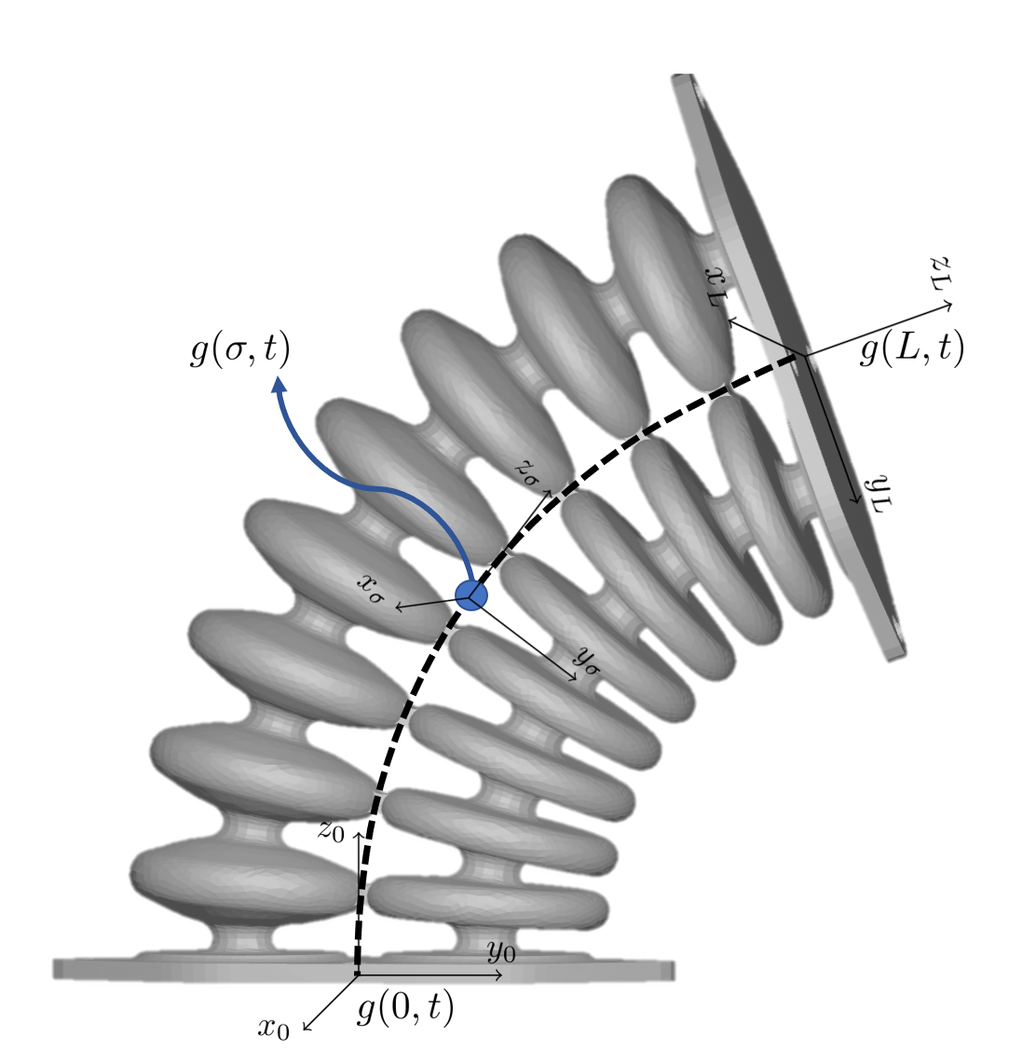
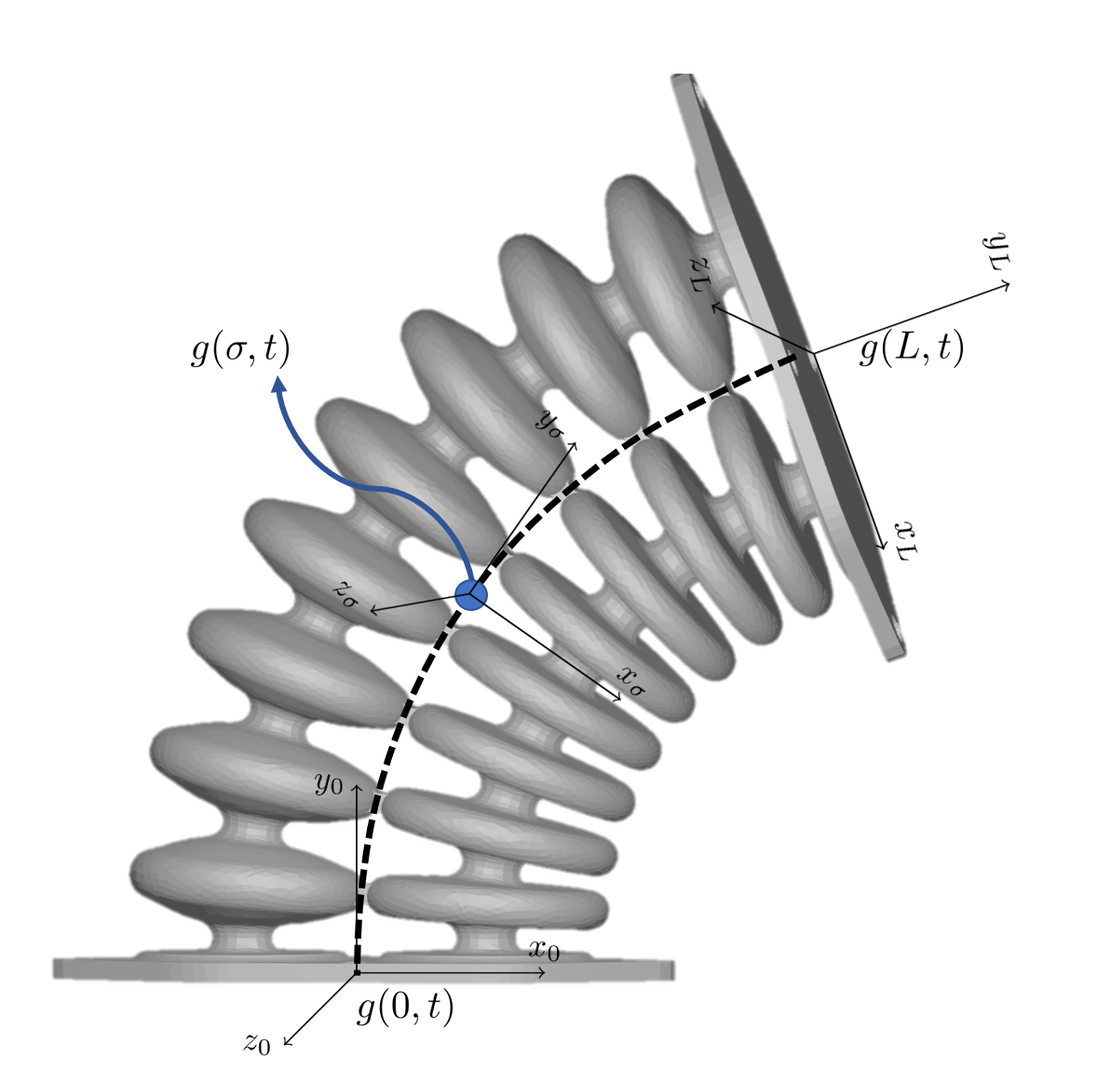
Updates from Overleaf

Changed region(s): [[0.031, 0.0613, 0.9298, 0.9807]]

diff --git a/Chapter/Chapter2_DynamicModel.tex b/Chapter/Chapter2_DynamicModel.tex
@@ -8,93 +8,85 @@ This chapter describes the dynamic model derivation of the soft robotic manipula
 
 \section{System description}
 
-The soft robot studied in this work is composed of a visco-elastic polymer using selective laser sintering technology. This manufacturing method is well suited to print hollow compartments, that allow for inflation. The elastomer has a low Young's modulus and is able to sustain large strains. These characteristics allow to induce large deformations with relatively low pressures. The geometry of the soft robot is best described by two bellows placed in parallel. Longitudinally, the bellows are connected to each other, creating the centre line of the actuator. The bellows are connected by a flanges at the top and bottom. The bellows can be inflated individually via air inlets created in the flange at one end of the actuator. This  The other end is closed, allowing to pressure the bellows. Since each bellow can be inflated independently, the entire actuator can increase its length and change orientation. Pressurizing both bellows equally will result in a near pure elongation of the soft robot. Creating a pressure difference will cause the soft robot to rotate. The following assumption is made with respect to the robot's task space:
+The soft robot studied in this work is composed of a visco-elastic polymer using selective laser sintering technology. This manufacturing method is well suited to print hollow compartments, that allow for inflation. The elastomer has a low Young's modulus and is able to sustain large strains. These characteristics allow to induce large deformations with relatively low pressures. The geometry of the soft robot is best described by two bellows placed in parallel. Longitudinally, the bellows are connected to each other, creating the centre line of the actuator. The bellows are connected by a flanges at the top and bottom. The bellows can be inflated individually via air inlets created in the flange at one end of the actuator. The other end is closed, allowing to pressure the bellows. Since each bellow can be inflated independently, the entire actuator can increase its length and change orientation. Pressurizing both bellows equally will result in a near pure elongation of the soft robot. Creating a pressure difference will cause the soft robot to rotate. The following assumption is made with respect to the robot's task space:
 
 \begin{theorem}
-Strains in the soft robot imposed by pneumatic actuation change the soft robot's length and orientation. Strains causing out of plane motion are deemed small, and can not be actively controlled. The soft robot's task-space therefore restricts itself to the 2 dimensional plane.
+Strains in the soft robot imposed by pneumatic actuation change the soft robot's length and orientation. Strains causing out of plane motion are deemed negligibly small, and can not be actively controlled. The soft robot's task-space therefore restricts itself to the 2 dimensional plane.
 \end{theorem}
 
-This assumption allows to describe the configuration of the soft robot in two dimensions. Since the soft robot has no clear end-effector a point on the body assigned to mark the end-effector location. 
-
-
-
-Since the soft robot has no clear end-effector such as a gripper or such, the centre line tip  a point is assigned to the geometrical mid and is is regarded as the end-effector location
-Therefore the ta space 
-
-
-The actuator is actuated in a single plane, hence the name planar soft robot. 
+This assumption allows to describe the configuration of the soft robot in a two dimensional Cartesian plane. Since the soft robot has no clear end-effector in the form of a gripper, a point on the body is assigned to be the end-effector. This point is situated at the geometric midst of the upper flange. The lower flange with the air inlets is fixed, here its geometric midst is defined as the origin. Altering the bellow pressure can therefore change the soft robot's end-effector position. Based on above assumptions a kinematic model of the soft actuator is developed. 
 
 
 \section{Cosserat beam theory}
 
-To describe the kinematics of the soft actuator used in this study, a Cosserat beam model is used \cite{Boyer2019}. This beam model can be thought of as a continuous one-dimensional curve representing the robot's backbone. This backbone is represented in Figure (\ref{fig2:kinematicschematic}) as the black dashed curve. This curve describes the configuration of the soft robot as a function of space and time. To this end, a spatial coordinate  $\sigma \in \mathbb{X}$ within bounded domain $\mathbb{X} \in [0,l] \subset \mathbb{R}$ is introduced. Furthermore, a temporal coordinate $t \in  \mathbb{T}$ with $\mathbb{T} \subseteq \mathbb{R}$ is defined. This allows to describe position $p(\sigma,t) \in \mathbb{R}^3$ and rotation $R(\sigma,t) \in \mathbb{SO}(3)$ for any point $\sigma$ and time instance $t$ among the backbone of the soft manipulator by \cite{Caasenbrood2020},
+To describe the kinematics of the soft actuator, a Cosserat beam model is used \cite{Boyer2019}. This beam model can be thought of as a continuous one-dimensional curve representing the robot's backbone. This backbone is represented in Figure (\ref{fig2:kinematicschematic}) as the black dashed curve. This curve describes the configuration of the soft robot as a function of space and time. Therefore, this function is dependent on spatial coordinate $\sigma \in \mathbb{X}$ within bounded domain $\mathbb{X} \in [0,L_0] \subset \mathbb{R}$, where $L_0$ is the nominal length of the actuator. Furthermore, a temporal coordinate $t \in \mathbb{T}$ with $\mathbb{T} \in [0,T]$ is defined. Under the assumption that the soft robot's task space is a two-dimensional plane, the rotation of any point $\sigma$ at time instance $t$ is given by rotation matrix $R(\sigma,t) \in \mathbb{SO}(2)$. Where $\mathbb{SO}(2)$ belongs to the special orthogonal group within Lie group theory. This matrix allows to express rotation of points on a two-dimensional surface, and is isomorphic to the circle group. Similarly, the position of that point is given by position vector $p(\sigma,t) \in \mathbb{R}^2$. This allows to describe position and rotation for any point $\sigma$ and time instance $t$ along the backbone of the soft manipulator by ,
 
 
 \begin{equation}
-    g(\sigma,t) = \begin{pmatrix}  R(\sigma,t) & p(\sigma,t) \\ 0_3^\top & 1 \end{pmatrix} \in \mathbb{SE}(3),
+    g(\sigma,t) = \begin{pmatrix}  R(\sigma,t) & p(\sigma,t) \\ 0_3^\top & 1 \end{pmatrix} \in \mathbb{SE}(2),
     \label{eq2:g}
 \end{equation}
 
-where $\mathbb{SE}(3)$ is the Lie group of rigid body transformations in $\mathbb{R}^3$ \cite{Sola2018}. Essentially, function $g(\sigma,t)$ expresses stretch-strain in a local frame evaluated at instance $\sigma$ at time $t$. Before the forward kinematics are derived the following assumption is made.
+where $\mathbb{SE}(2)$ is the Lie group of rigid body transformations in $\mathbb{R}^2$ \cite{Sola2018}. In order to derive forward kinematics another assumption has to be made with respect to this backbone curve $g(\sigma,t)$.
 
 \begin{theorem}
 Curve  $g(\sigma,t)$ is a continuous differential function $ \forall t \in 
 \mathbb{T} $ and $\forall \sigma \in \mathbb{X}$
 \end{theorem}
 
+This assumption demands that derivatives of the backbone with respect to time and space are also continuous. These derivatives are essential in determining the strain and velocity field of the soft robot actuator. This strain field allows to determine the time-invariant forward kinematics. Whilst the velocity field will be used in determining the system dynamics. First we try to solve the forward kinematic problem by computing the strain field.
 
 
-\section{Local strain computation}
+\begin{figure}[H]
+    \centering
+    \includegraphics[width=0.5\textwidth]{Figures/Chapter2/actuatorschematic.png}
+    \caption{Planar soft actuator with the backbone curve $g(\sigma,t)$.}
+    \label{fig2:kinematicschematic}
+\end{figure}
 
-The forward kinematic problem can be found by differentiating (\ref{eq2:g}) with respect to position.
-Derivatives with respect to the spatial domain will be indicated with a `prime'. This results in the following partial differential equation (PDE), 
+\section{Computation of the strain field}
 
-
-
+The local strain can be found by differentiating (\ref{eq2:g}) with respect to space. Derivatives with respect to the spatial domain will be indicated with a `prime'. This results in the following partial differential equation (PDE), 
 
 \begin{equation}
-   g' = \frac{\partial g}{\partial \sigma} = g \hat{\xi} \hspace{10pt} \text{with} \hspace{10pt}  \hat{\xi} = \begin{pmatrix} K_\times & E \\ 0_3^\top & 0 \end{pmatrix} \in  \mathfrak{se}(3)
+   g' = \frac{\partial g}{\partial \sigma} = g \hat{\xi} \hspace{10pt} \text{with} \hspace{10pt}  \hat{\xi} := \begin{pmatrix} K_\times & E \\ 0_3^\top & 0 \end{pmatrix} \in  \mathfrak{se}(2)
     \label{eq2:dgdsigma}
 \end{equation}
 
-where $\hat{\xi}$ is the space-twist field. Here, $K_\times \in \mathbb{R}^{3\times 3}$ is a skew-symmetric matrix expressing curvature-torsion strain, and $E = [\epsilon_1,\epsilon_2,\epsilon_3]^\top \in \mathbb{R}^3$ containing stretch-shear strain. The entries of $E$ represent degrees-of-freedom that allow elongation in all three directions. Likewise, the skew-symmetric matrix $K_{\times}$ holds three rotational degrees of freedom. From this skew symmetric matrix vector $K \in \mathbb{R}^3$ can be found. To find $K$ it must hold that $K_\times V = K \times V$ for any $V \in \mathbb{R}^3$ \cite{Boyer2019}. This gives $K = [\kappa_1,\kappa_2,\kappa_3]^\top$ expressing curvatures in all three directions. The stretch-strain and curvature-torsion components will be stored in vector $\xi \in \mathbb{R}^6$ as $[K \hspace{5pt} E]^\top$.
+where $\hat{\xi}$ is the space-twist field. Here, $K_\times \in \mathbb{SO}(2)$ is a skew-symmetric matrix expressing curvature-torsion strain, and $E = [\epsilon_x,\epsilon_y]^\top \in \mathbb{R}^2$ containing stretch-shear strain. Physically, the entry in matrix $K$ expresses the curvature of actuator in the plane. Whereas, the entries in vector $E$ represent strains in vertical and horizontal direction. It shall be clear that the soft robot studied here does not have an active strain in that allows for deformation in horizontal direction. The skew-symmetric matrix can be converted to a scalar expressing the curvature, which we denote by $K = \kappa$. These curvature-torsion strains and stretch-shear strain will be stored in column vector $\xi \in \mathbb{R}^3$ as $] K^\top \hspace{3pt} E^\top ]^\top$.
 
-
-\section{Strain projection into finite dimension}
-
+The PDE of \ref{eq2:dgdsigma} describes the forward kinematic problem needed to be solved in order to compute the robot's configuration. It is useful to transform this PDE to an ordinary differential equation (ODE) as this allows for faster computation and controller design. This transformation reduces the system's original infinite dimensionality to a predefined dimension. In order to be able to transform the system, we make the following assumption: 
 
 \begin{theorem}
 
 For any $t \in \mathbb{T}$ and $\sigma \in \mathbb{X}$, strain $\xi(\sigma,t)$ can be written as an infinite expansion of the form \cite{Caasenbrood2021},
 
 \begin{equation}
-\xi_i(\sigma,t) = \sum_{i=1}^\infty \varphi_i(\sigma)q_i(t) + \xi_{i,0}(\sigma), \hspace{20pt} \forall \sigma \in \mathbb{X}, t \in \mathbb{T},
+\xi_i(\sigma,t) = \sum_{k=1}^\infty \varphi_k(\sigma)q_k(t) + \xi_{i,0}(\sigma), \hspace{20pt} \forall \sigma \in \mathbb{X}, t \in \mathbb{T},
 \label{eq2:strainexact}
 \end{equation}
 
-in which, $\xi_{i,0}$ corresponds to the internal strains of the undeformed configuration of the robotic manipulator, $\{\varphi_i\}_{i \in \mathbb{N}}$ is a set of basis shape functions and $q(t)$ are modal coefficients. 
+in which, $\xi_{i}$ with $i \in {1,2,3}$ is the $i^{\text{th}}$ entry in the space-twist column vector. Furthermore, $k \in \mathbb{N}$ is the index of the summation. Initial strains of the undeformed soft robot are captured in $\xi_{i,0}$ and $\{\varphi_k\}_{k \in \mathbb{N}}$ is a set of basis shape functions and $q_i(t)$ a column vector are modal coefficients. 
 \end{theorem}
 
-Essentially, the PDE of (\ref{eq2:dgdsigma}), is transformed to an ordinary differential equation (ODE) by exploiting the Galerkin reduction method \cite{Galerkin}.
-
-
-
-Here, the infinite dimensional system is projected onto a subspace of finite dimension that contains basis elements of the expected solution. By reducing the dimensionality of the system, higher order dynamics are not captured in the model and thus robustness should be taken into account. To transform PDE (\ref{eq2:dgdsigma}), the components of the strain field $\xi(\sigma,t)$ are approximated using a finite amount of shape functions as,
+This assumption allows to transform the PDE of (\ref{eq2:dgdsigma}) to an ODE by exploiting the Galerkin reduction method \cite{Galerkin}. Here, the infinite dimensional system is projected onto a subspace of finite dimension that contains basis elements of the expected solution. Each of the three curvature/strains is approximated by an finite amount of shape functions each having a certain contribution to the complete solution. By reducing the dimensionality of the system, higher order dynamics are not captured in the model and thus robustness should be taken into account. To transform PDE (\ref{eq2:dgdsigma}), the components of the strain field $\xi(\sigma,t)$ are approximated using a finite amount of shape functions as,
 
 \begin{equation}
-    [\xi_i(\sigma,t)]_N = \sum_{i=1}^N \varphi_i(\sigma)q_i(t) + \xi_{i,0}(\sigma), \hspace{20pt} \forall \sigma \in \mathbb{X}, t \in \mathbb{T},
+    [\xi_i(\sigma,t)]_N = \sum_{k=1}^N \varphi_k(\sigma)q_k(t) + \xi_{i,0}(\sigma), \hspace{20pt} \forall \sigma \in \mathbb{X}, t \in \mathbb{T},
     \label{eq2:strainapprox}
 \end{equation}
 
-where $N$ is the amount of shape functions used to approximate strain $\xi(\sigma,t)$. It should be clear that the initial internal deformation $\xi_{(i,0)}$ is time invariant. There exist multiple variants of shape function polynomials that can be used in approximating strain. The Chebyshev polynomial, Polynomial and Legendre polynomials are respectively given by,
+where $N \in \mathbb{N}$ is the amount of shape functions used to approximate strain $\xi_i(\sigma,t)$. Vector $q(t) \in \mathbb{R}^N$ only contains time dependent modal coordinates. These modal coordinates can be viewed as coefficients expressing the contribution of each individual mode shape to the entire strain approximation. The modal coordinates used here are analogous to for example joint angles as used in traditional robotics. Furthermore, it should be clear that the initial internal deformation $\xi_{(i,0)}$ is time invariant. For the studied soft robot the initial deformation is given as $\xi_{i,0} = [0 \hspace{3pt} 0 \hspace{3pt} 1]^\top$. This means that the undeformed actuator is either in an upright or down configuration, e.g. no curvature $\kappa = 0$. Furthermore, the strain in horizontal direction $\epsilon_x = 0$. The stretch in vertical direction $\epsilon_y = 1$, which corresponds to the soft robots undeformed length $L_0$. The square brackets around $\xi$ indicate it is an approximation. 
+
+There exist multiple variants of shape function polynomials that can be used in approximating strain. The Chebyshev polynomial, Polynomial and Legendre polynomials given by, respectively,
 
 \begin{equation}
-    \varphi_{k,cheby}(\sigma) = \cos(k \sigma), \hspace{40pt} \varphi_{k,poly} = \sigma^k, \hspace{40pt} \varphi_{k,legend} = \frac{1}{2^k k!} \frac{d^k}{d\sigma^k}(\sigma^2-1)^k.
+    \varphi_{k,cheby}(\cos(\sigma)) = \cos(k \sigma), \hspace{40pt} \varphi_{k,poly} = \sigma^k, \hspace{40pt} \varphi_{k,legend} = \frac{1}{2^k k!} \frac{d^k}{d\sigma^k}(\sigma^2-1)^k.
     \label{eq2:shapefunction}
 \end{equation}
 
 
-Each degree of shape-function gives the model a certain amount of flexibility. Therefore increasing the order of shape-functions allows the model to describe more complex robot configurations. To avoid coupling between shape functions,  it is important that these shape functions are orthogonal. This means that $\int_\mathbb{X} \varphi_i \varphi_j d \sigma = 0$ for any $i \neq j$ and non-zero otherwise. Given this, the $N$-th order strain expansion can be formulated as,
+Each degree of shape-function gives the model a certain amount of flexibility. Therefore increasing the order of shape-functions allows the model to describe more complex robot configurations. To avoid coupling between the states, it is important that these shape functions are orthogonal to each other. This means that $\int_\mathbb{X} \varphi_i \varphi_j d \sigma = 0$ for any $i \neq j$ and non-zero otherwise. The strain approximation of \ref{eq2:strainapprox} can be written as a $N$-th order expansion as,
 
 
 
@@ -109,10 +101,21 @@ Each degree of shape-function gives the model a certain amount of flexibility. T
 \label{eq2:xishape}
 \end{equation}
 
-where $\Phi \in \mathbb{R}^{m \times n}$ is a shape function matrix where $n$ is equal to the amount of modal coordinates, and $m$ the amount of active strains, and $B_a \subseteq \text{span}(\mathbb{I}_6)$ a selection matrix of unconstrained strains. It should be clear that modal coordinate vector $q(t)$ has length $m \times N$.
+where $\Phi \in \mathbb{R}^{m \times N}$ is a shape function matrix where $N$ is equal to the amount of modal coordinates used for approximating the strain and $m$ the amount of active strains. The definition of active strains is this context are strains that can be actively controlled. For our soft robot this is the curvature and elongation $\epsilon_y$. Hence, $m=2$ for our system. Based on these active strains, selection matrix of unconstrained strains $B_a \subseteq \text{span} \mathbb{I_3}$ can be defined as,
+
+\begin{equation}
+    B_a = \begin{bmatrix}
+    1 & 0 & 0  \\
+    0 & 0 & 1  \\
+    \end{bmatrix}^\top.
+\end{equation}
+
+We now have developed 
+
+ should be clear that modal coordinate vector $q(t)$ has length $m \times N$.
 
 
-
+%%%%%%%%%%%%%%%%% check dimension q(t) !!!!!!!!!!!!!!!
 
 
 \section{Forward kinematics}
@@ -123,12 +126,7 @@ We have now presented a general framework for modelling forward kinematics for s
 
 For the planar robot, it shall be clear that we can actuate two degrees of freedom. By pressurizing both bellows equally the actuator can elongate. A difference in bellow pressure will induce a curvature. Therefore two active degrees of freedom are included. In the kinematic model strain $\epsilon_3$ and curvature $\kappa_2$ will take value 1. All other degrees-of-freedom will take value 0. Recall $\xi(\sigma,t)$ is $[K \hspace{5pt} E]^\top$, this results in vector $[0,1,0,0,0,1]^\top$. Selection matrix $B_a$ will have the following structure,
 
-\begin{equation}
-    B_a = \begin{bmatrix}
-    0 & 1 & 0 & 0 & 0 & 0 \\
-    0 & 0 & 0 & 0 & 0 & 1 \\
-    \end{bmatrix}^\top,
-\end{equation}
+
 
 the actuator has an initial length in the $\epsilon_3$ direction. Therefore $\xi_0 = [0,0,0,0,0,1]^\top$. Throughout this work we will use "elongation" or $\epsilon$ to address strain $\epsilon_3$. Likewise, ``curvature'', ``rotation'' or  $\kappa$ are used interchangeably to refer to curvature $\kappa_2$. Lastly, the amount of shape functions used to approximate strains is set. To this end another assumption is made.
 
@@ -150,10 +148,16 @@ From this point onward, only a single shape function is used to approximate the 
 
 Besides a forward kinematic model, a numerical inverse kinematic solver was programmed. This allows to define a position in planar Cartesian coordinates. The algorithm will minimize the distance between the desired end-effector position and reachable end-effector position given an amount of shape functions. It shows the model's flexibility when using multiple shape functions. The algorithm is further detailed in Appendix \ref{app:chap2}. 
 
+\section{Velocity kinematics}
 
-\section{Dynamic model derivation}
+Similar to the spatial derivative, backbone curve $g(\sigma,t)$ can be differentiated with respect to time. These time derivatives will be indicated with a `dot'. This differentiation results in, 
 
+\begin{equation}
+  \Dot{g} = \frac{\partial g}{\partial t} = g \hat{\eta} \hspace{10pt} \text{with} \hspace{10pt}  \hat{\eta} = \begin{pmatrix} \Omega_\times & V \\ 0_3^\top & 0 \end{pmatrix} \in  \mathfrak{se}(3)
+    \label{eq2:dgdt}
+\end{equation}
 
+which describes the time-twist field in a local frame at $\sigma$. Here, $\Omega_\times \in \mathbb{R}^{3 \times 3}$ is a skew-symmetric matrix expressing angular velocity, and vector $V = (v_1,v_2,v_3)^\top \in \mathbb{R}^3$ contains linear velocities. Therefore, $\eta$ effectively describes velocities among the backbone curve. Again, the skew-symmetric matrix $\Omega_\times$ can be represented as a vector $\Omega = [\omega_1,\omega_2,\omega_3]^\top \in \mathbb{R}^3$. These velocities are stored in vector $\eta(\sigma,t) = [\Omega \hspace{5pt} V]^\top \in \mathbb{R}^6$.
 
 Using the equality of mixed partial derivatives, at each instant of space and time $\frac{\partial}{\partial t}g' = \frac{\partial}{\partial \sigma}\dot{g}$ holds \cite{Caasenbrood2020}. Substituting (\ref{eq2:dgdsigma}) and (\ref{eq2:dgdt}) into this relation and simplifying results in,
 
@@ -191,18 +195,7 @@ Now we have an approximation for the strain of the actuator, we can find the ana
 here an expression for the geometric Jacobian $J(\sigma,t) \in \mathbb{R}^{6\times n}$ is obtained. This Jacobian maps modal coordinate velocity to linear and angular velocities among the backbone curve. This results in a Jacobian matrix which is non-linear with respect to position and time. This Jacobian will of use in determining the system dynamics. Furthermore it can be used for determining inverse kinematics, and control purposes.
 
 
-
-
-
-Similar to the spatial derivative, backbone curve $g(\sigma,t)$ can be differentiated with respect to time. These time derivatives will be indicated with a `dot'. This differentiation results in, 
-
-\begin{equation}
-  \Dot{g} = \frac{\partial g}{\partial t} = g \hat{\eta} \hspace{10pt} \text{with} \hspace{10pt}  \hat{\eta} = \begin{pmatrix} \Omega_\times & V \\ 0_3^\top & 0 \end{pmatrix} \in  \mathfrak{se}(3)
-    \label{eq2:dgdt}
-\end{equation}
-
-which describes the time-twist field in a local frame at $\sigma$. Here, $\Omega_\times \in \mathbb{R}^{3 \times 3}$ is a skew-symmetric matrix expressing angular velocity, and vector $V = (v_1,v_2,v_3)^\top \in \mathbb{R}^3$ contains linear velocities. Therefore, $\eta$ effectively describes velocities among the backbone curve. Again, the skew-symmetric matrix $\Omega_\times$ can be represented as a vector $\Omega = [\omega_1,\omega_2,\omega_3]^\top \in \mathbb{R}^3$. These velocities are stored in vector $\eta(\sigma,t) = [\Omega \hspace{5pt} V]^\top \in \mathbb{R}^6$.
-
+\section{Dynamic model derivation}
 
 
 To study the dynamic behaviour of the soft actuator a dynamic model is created. A relatively simple approximation is used to get insight of the basic dynamics of the actuator. In this we propose a non-linear mass-spring-damper model. The developed model incorporates non-linear mass and non-linear stiffness matrix in an effort to increase model accuracy. In this section an analytical expression for the mass matrix is provided. Additionally damping and stiffness matrices are introduced. For which the entries are determined in Chapter \ref{chap3}.
@@ -284,33 +277,22 @@ where $\tau \in \mathbb{R}^2$ describes the input moment and force acting on cur
 
 
 
-
-A kinematic description of the actuator is necessary to describe the position in three-dimensional space. A widely adopted method for describing the configuration of soft robots is piece-wise constant curvature (PCC) modelling \cite{ccapproach}. Previous research used this model to describe forward kinematics of soft actuators are \cite{mahl2014bhakin}, \cite{berkers},\cite{Falkenhahn2015}, \cite{ccapproach}, \cite{runge2017framework}. A schematic drawing of the constant curvature modelling approach is shown in Figure \ref{fig2:ccapproach}. Although we will not be using this exact methodology, it is important to understand the basics. The constant curvature describes the position of the actuator by three coordinates. Parameter $l$ is the curved length of the actuator measured from the fixed bottom to the tip. Coordinate $\kappa$ expresses the curvature of the actuator. It is assumed that the deformed actuator describes a perfect arc, hence radius $r$ is equal to $\frac{l}{k}$. This allows to write the orientation of the actuator's tip as $\theta = l\kappa$. Lastly, parameter $\phi$ describes the rotation of the actuator with respect to the ground. A single constant curvature is not able to describe complex actuator configurations. To this end, multiple of these curves are stacked onto each other, thereby discretizing the actuator. This allows to describe more complex configurations. This methodology is used in for instance \cite{Falkenhahn2015}.
-
-The PCC approach has some limitations, due to its piece-wise character the actuator configuration is not described by a single continuous function. This makes it harder to find analytical expressions for for instance derivatives. Additionally, this PCC approach only allows to assign material properties to particular points. This makes dynamical models generally less accurate. One method to overcome this problem is using partial differential equations (PDE's) to describe actuator configurations. These PDE's are more suitable for deriving continuum dynamic models. 
-
+\begin{equation}
+    p(t) = -\frac{1}{\tau_s} + \frac{R}{\tau_s}V(t)
+\end{equation}
 
 
+%A kinematic description of the actuator is necessary to describe the position in three-dimensional space. A widely adopted method for describing the configuration of soft robots is piece-wise constant curvature (PCC) modelling \cite{ccapproach}. Previous research used this model to describe forward kinematics of soft actuators are \cite{mahl2014bhakin}, \cite{berkers},\cite{Falkenhahn2015}, \cite{ccapproach}, \cite{runge2017framework}. A schematic drawing of the constant curvature modelling approach is shown in Figure \ref{fig2:ccapproach}. Although we will not be using this exact methodology, it is important to understand the basics. The constant curvature describes the position of the actuator by three coordinates. Parameter $l$ is the curved length of the actuator measured from the fixed bottom to the tip. Coordinate $\kappa$ expresses the curvature of the actuator. It is assumed that the deformed actuator describes a perfect arc, hence radius $r$ is equal to $\frac{l}{k}$. This allows to write the orientation of the actuator's tip as $\theta = l\kappa$. Lastly, parameter $\phi$ describes the rotation of the actuator with respect to the ground. A single constant curvature is not able to describe complex actuator configurations. To this end, multiple of these curves are stacked onto each other, thereby discretizing the actuator. This allows to describe more complex configurations. This methodology is used in for instance \cite{Falkenhahn2015}.
 
-\begin{figure}[H]
-  \begin{minipage}{\linewidth}
-      \centering
-      \begin{minipage}{0.45\linewidth}
-        \begin{figure}[H]
-        \centering
-        \includegraphics[width=0.85\linewidth]{Figures/Chapter2/ccapproach.png}
-         \caption{Schematic drawing of the constant curvature \cite{ccapproach}.}
-         \label{fig2:ccapproach}
-        \end{figure}
-      \end{minipage}
-      \hspace{0.05\linewidth}
-      \begin{minipage}{0.45\linewidth}
-          \begin{figure}[H]
-                 \includegraphics[width=0.88\textwidth]{Figures/Chapter2/actuatorschematic.png}
-            \caption{Planar soft actuator with the backbone curve $g(\sigma,t)$.}
-            \label{fig2:kinematicschematic}
-          \end{figure}
-      \end{minipage}
-  \end{minipage}
-\end{figure}
+%The PCC approach has some limitations, due to its piece-wise character the actuator configuration is not described by a single continuous function. This makes it harder to find analytical expressions for for instance derivatives. Additionally, this PCC approach only allows to assign material properties to particular points. This makes dynamical models generally less accurate. One method to overcome this problem is using partial differential equations (PDE's) to describe actuator configurations. These PDE's are more suitable for deriving continuum dynamic models. 
+
+
+
+
+%\begin{figure}[H]
+%        \centering
+%        \includegraphics[width=0.85\linewidth]{Figures/Chapter2/ccapproach.png}
+%         \caption{Schematic drawing of the constant curvature \cite{ccapproach}.}
+%         \label{fig2:ccapproach}
+%\end{figure}
 

diff --git a/Chapter/Chapter1_Introduction.tex b/Chapter/Chapter1_Introduction.tex
@@ -72,7 +72,7 @@ Recapitulating, this thesis includes the following:
 
 \begin{figure}[H]
     \centering
-    \includegraphics{Figures/Chapter1/controlscheme.eps}
+    \includegraphics[width = \textwidth]{Figures/Chapter1/controlscheme.eps}
     \caption{Caption}
     \label{fig:my_label}
 \end{figure}
